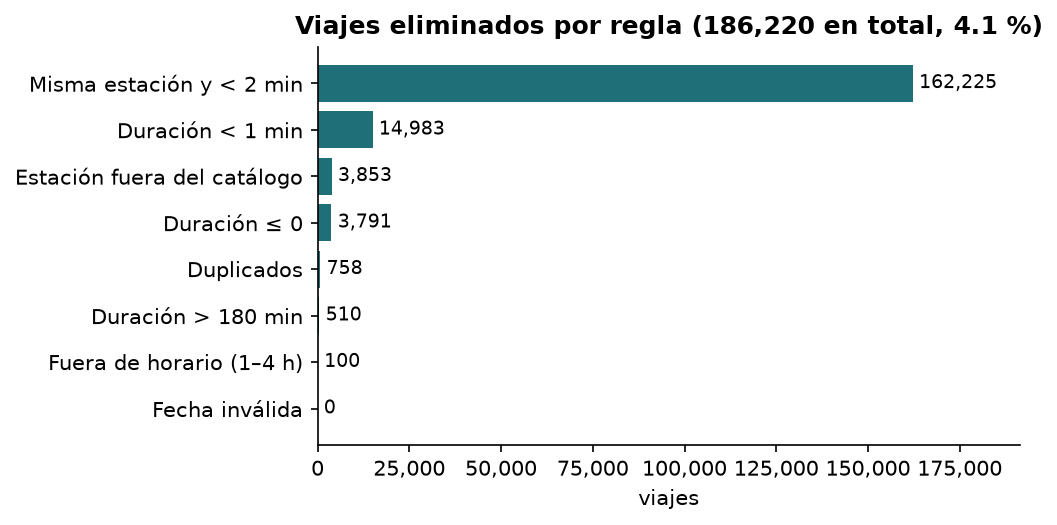
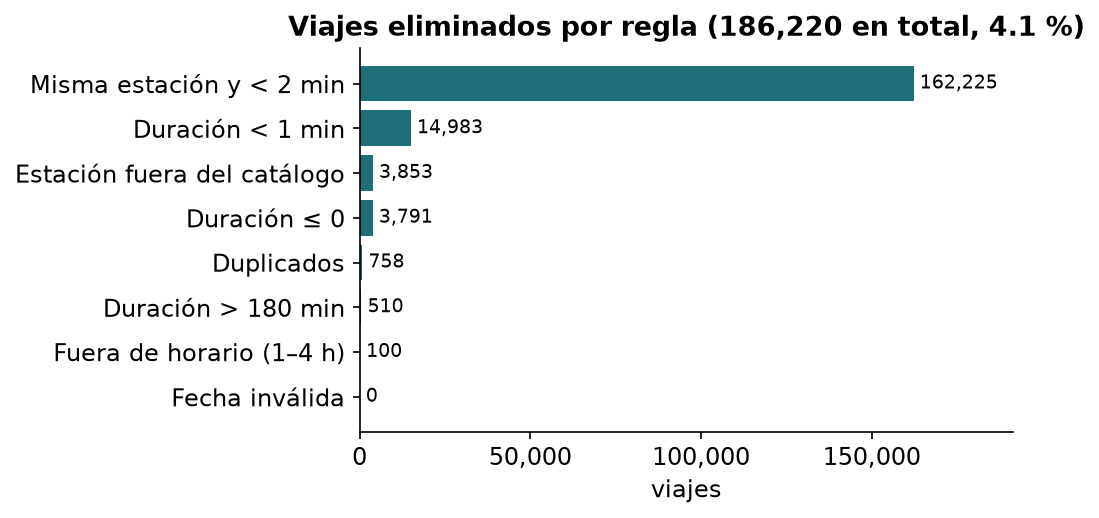
Figuras más legibles y nombres de versión padre consistentes
Fuente más grande y etiquetas de meses en español en las figuras del EDA;
v1 registra su padre como viajes-v0 y v3 describe los perfiles como horarios.

Claude-Session: https://claude.ai/code/session_01PaY3D5rALNQrVkpKddafF1

diff --git a/mibici/plots.py b/mibici/plots.py
@@ -39,7 +39,7 @@ RULE_LABELS = {
     "estacion_fuera_de_catalogo": "Estación fuera del catálogo",
 }
 plt.rcParams.update({"figure.dpi": 150, "axes.spines.top": False, "axes.spines.right": False,
-                     "axes.titleweight": "bold", "axes.titlesize": 12, "font.size": 10})  # fmt: skip
+                     "axes.titleweight": "bold", "axes.titlesize": 13, "font.size": 11.5})  # fmt: skip
 
 
 def save(fig, name: str) -> None:
@@ -58,6 +58,7 @@ def plot_cleaning(report: dict) -> None:
     ax.set_title(f"Viajes eliminados por regla ({removed:,} en total, "
                  f"{100 * removed / report['filas_iniciales']:.1f} %)")  # fmt: skip
     ax.set_xlabel("viajes")
+    ax.xaxis.set_major_locator(matplotlib.ticker.MultipleLocator(50_000))
     ax.xaxis.set_major_formatter(matplotlib.ticker.StrMethodFormatter("{x:,.0f}"))
     ax.set_xlim(0, rules[-1][0] * 1.18)
     save(fig, "fig1_limpieza.png")
@@ -82,10 +83,10 @@ def plot_duration(raw: pd.DataFrame) -> None:
 
 def plot_monthly(trips: pd.DataFrame) -> None:
     monthly = trips.groupby(trips["inicio"].dt.to_period("M")).size()
-    fig, ax = plt.subplots(figsize=(7, 3.2))
-    labels = [f"{MONTHS[p.month - 1]}\n{p.year % 100}" for p in monthly.index]
+    fig, ax = plt.subplots(figsize=(5, 3.4))
+    labels = [MONTHS[p.month - 1] for p in monthly.index]
     ax.bar(labels, monthly.values / 1000, color=ACCENT)
-    ax.set_title("Viajes limpios por mes (miles)")
+    ax.set_title("Viajes limpios por mes (oct 2025 – sep 2026)")
     ax.set_ylabel("miles de viajes")
     save(fig, "fig3_viajes_mes.png")
 
@@ -105,7 +106,7 @@ def plot_heatmap(panel: pd.DataFrame) -> None:
 
 def plot_demand_distribution(panel: pd.DataFrame) -> None:
     counts = panel["salidas"].clip(upper=15).value_counts(normalize=True).sort_index() * 100
-    fig, ax = plt.subplots(figsize=(7, 3.2))
+    fig, ax = plt.subplots(figsize=(6.4, 3.4))
     ax.bar(counts.index, counts.values, color=[RED] + [ACCENT] * (len(counts) - 1))
     ax.set_xticks(range(16), [str(i) for i in range(15)] + ["15+"])
     ax.set_title(f"Salidas por estación-hora: {counts.iloc[0]:.0f} % de las horas son cero")
@@ -119,7 +120,7 @@ def plot_top_stations(trips: pd.DataFrame, stations: pd.DataFrame, n: int = 15) 
     names = stations.set_index("estacion_id")["nombre"].str.replace(r"^\S+\s", "", regex=True)
     top = total.head(n)[::-1]
     share = 100 * total.head(int(0.2 * len(total))).sum() / total.sum()
-    fig, ax = plt.subplots(figsize=(7, 4.2))
+    fig, ax = plt.subplots(figsize=(6.6, 4.4))
     ax.barh(names.reindex(top.index).str.slice(0, 38), top.values / 1000, color=ACCENT)
     ax.set_title(f"Top {n} estaciones por salidas (el 20 % de estaciones genera {share:.0f} %)")
     ax.set_xlabel("miles de salidas en 12 meses")
@@ -127,7 +128,7 @@ def plot_top_stations(trips: pd.DataFrame, stations: pd.DataFrame, n: int = 15) 
 
 
 def plot_pca(pca, comps: pd.DataFrame, stations: pd.DataFrame, trips: pd.DataFrame) -> None:
-    fig, axes = plt.subplots(1, 2, figsize=(10, 3.4), gridspec_kw={"width_ratios": [1.6, 1]})
+    fig, axes = plt.subplots(1, 2, figsize=(9.5, 3.6), gridspec_kw={"width_ratios": [1.6, 1]})
     ax = axes[0]
     for i, color in [(0, ACCENT), (1, RED)]:
         ax.plot(pca.components_[i], color=color, label=f"PC{i + 1}")
@@ -152,7 +153,7 @@ def plot_pca(pca, comps: pd.DataFrame, stations: pd.DataFrame, trips: pd.DataFra
 
     geo = stations.set_index("estacion_id").join(comps["pc1"], how="inner")
     geo["salidas"] = trips["origen_id"].value_counts()
-    fig, ax = plt.subplots(figsize=(6.2, 5.6))
+    fig, ax = plt.subplots(figsize=(5.6, 5.4))
     lim = np.abs(geo["pc1"]).quantile(0.95)
     sc = ax.scatter(geo["lon"], geo["lat"], c=geo["pc1"], cmap=DIVERGING, vmin=-lim, vmax=lim,
                     s=8 + geo["salidas"] / geo["salidas"].max() * 120, edgecolor="none")  # fmt: skip
